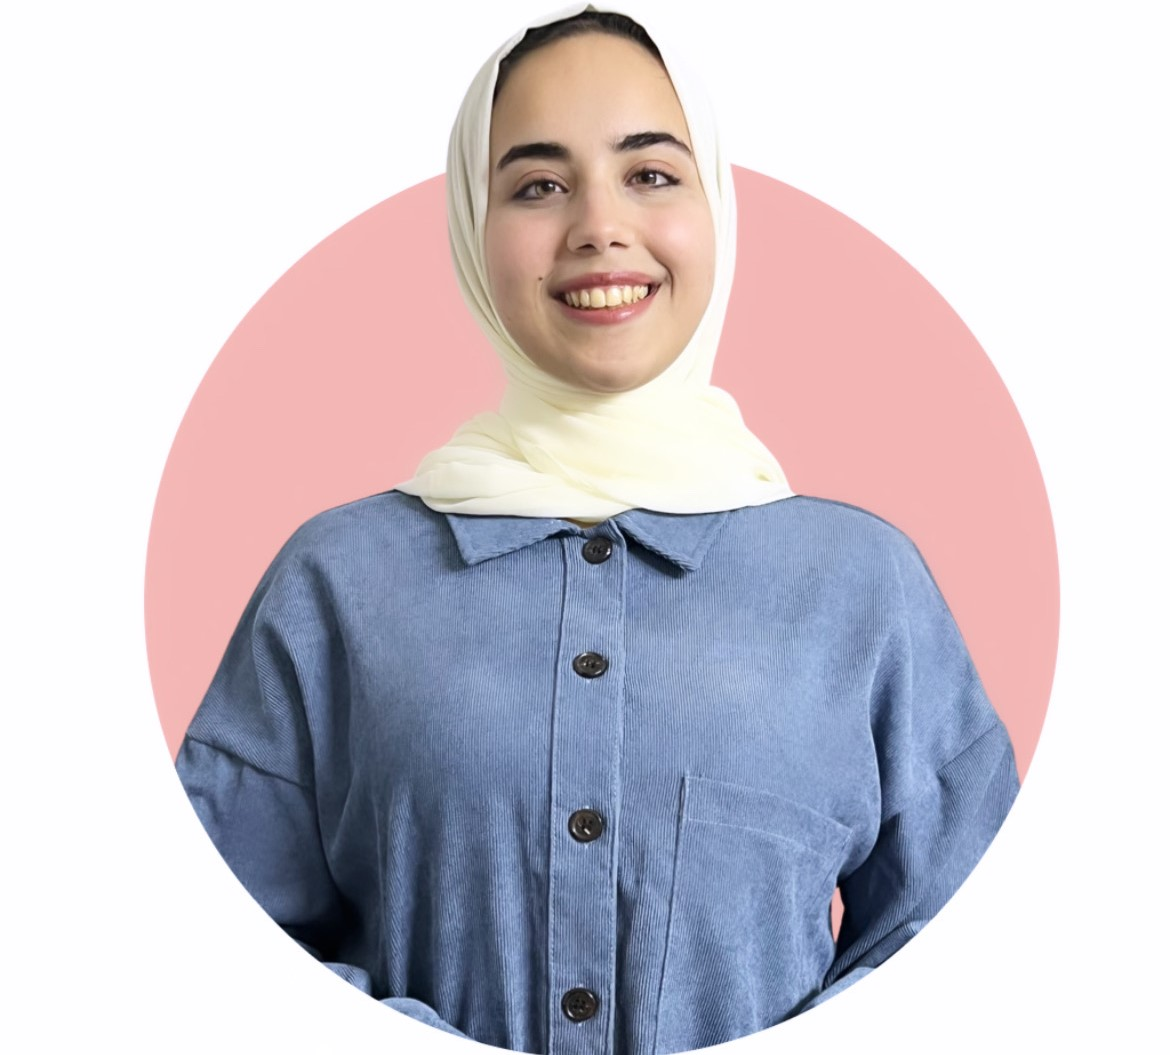
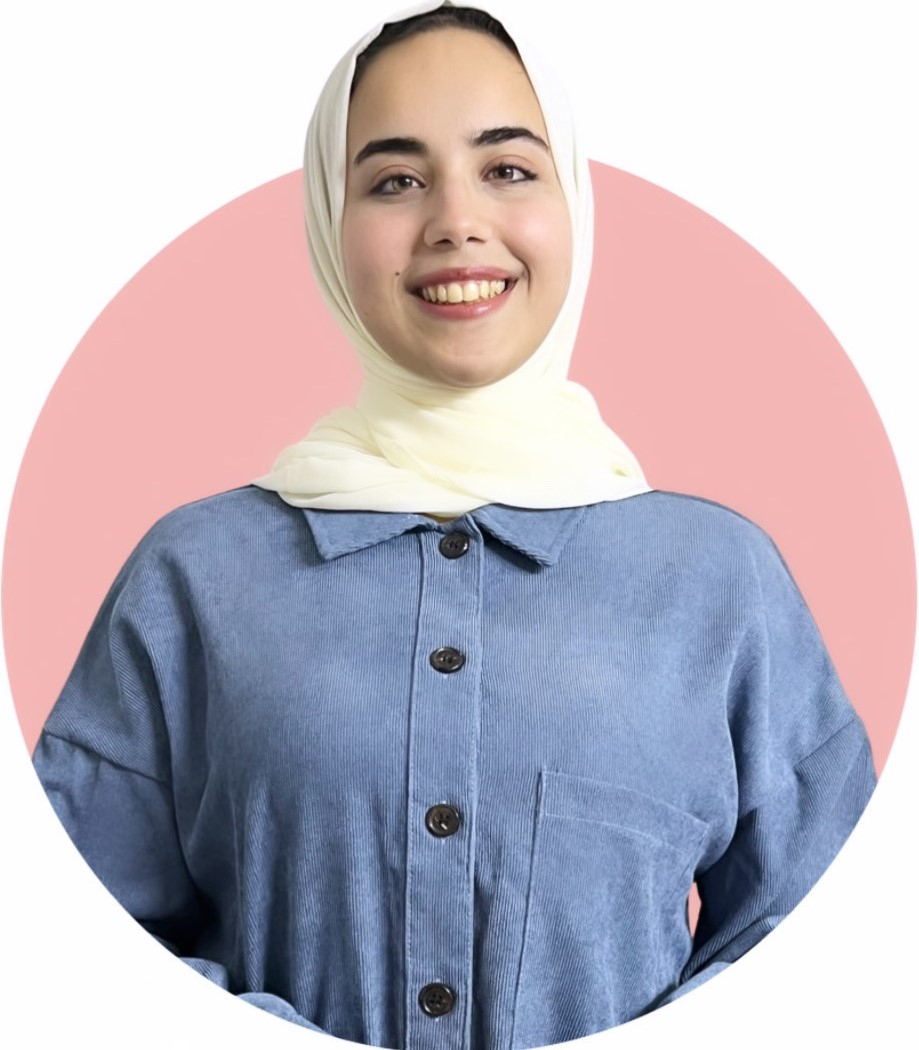
responsive screens updated

diff --git a/src/pages/Home/Home.scss b/src/pages/Home/Home.scss
@@ -1,20 +1,22 @@
+@import "../../assets/scss/screen_brakpoints.module";
 .home {
   display: flex;
-  justify-content: center;
+  justify-content: flex-start;
   flex-grow: 1;
-  align-items: center;
-  margin: 0 auto;
+  // align-items: flex-start;
+  margin: auto;
   position: relative;
   &__details {
-    width: 50%;
     display: flex;
+    margin: 4rem 10px 0 10px;
     flex-direction: column;
     justify-content: end;
+    -webkit-justify-content: flex-end;
     h1 {
-      font-size: 4rem;
+      font-size: 3rem; //new
       color: var(--light-pink-color);
       font-weight: 400;
-      position: absolute;
+      // position: absolute;  //new
       -webkit-text-stroke: 0.1vw var(--main-color);
       // text-transform: uppercase;
       left: -35px;
@@ -28,8 +30,9 @@
   &__text {
     border-left: 3px solid var(--main-color);
     padding-left: 15px;
-    margin-top: 30px;
     animation-duration: 3s;
+    margin-top: 20px; //new
+    margin-bottom: 60px; //new
     span {
       color: var(--pink-color);
 
@@ -54,18 +57,18 @@
   }
   &__container {
     display: flex;
-    width: 80%;
-    height: 80%;
-    margin: auto;
+    flex-grow: 1;
+    justify-content: center;
+    align-items: center;
+    margin: 0 auto;
+    flex-direction: column; //new
     figure {
       display: flex;
-      width: 80%;
-      height: 100%;
-      margin-right: 20px;
+      width: 70%; //new
+      margin: 0 auto; //new
       justify-content: center;
       img {
         max-width: 100%;
-
         max-height: 100%;
       }
     }
@@ -73,4 +76,59 @@
 }
 .lightColor {
   color: var(--light-pink-color) !important;
+}
+@media ($sm-screen) {
+  .home {
+    &__container {
+      figure {
+        width: 55%;
+      }
+    }
+  }
+}
+@media ($md-screen) {
+  .home {
+    justify-content: center;
+    align-items: center;
+    &__container {
+      width: 100%;
+      height: 70%;
+      flex-grow: 0;
+      justify-content: center;
+      margin: auto;
+      flex-direction: row; //new
+      figure {
+        width: 60%;
+        height: 100%;
+        margin-right: 60px;
+      }
+    }
+    &__details {
+      width: 50%;
+      height: 100%;
+      justify-content: flex-end !important;
+      h1 {
+        position: absolute;
+      }
+    }
+  }
+  &__text {
+    //new
+    margin-top: 30px;
+    margin-bottom: 0;
+  }
+}
+
+@media ($lg-screen) {
+  .home {
+    &__container {
+      width: 80%;
+      height: 80%;
+    }
+    &__details {
+      h1 {
+        font-size: 4rem;
+      }
+    }
+  }
 }

diff --git a/src/pages/Home/Home.js b/src/pages/Home/Home.js
@@ -18,7 +18,6 @@ const Home = () => {
               <br />
               World!
             </h1>
-
             <div className="home__text animate__animated animate__fadeInDown">
               <p>
                 I'm <span>Yasmeen Mostafa</span>, frontend web developer
